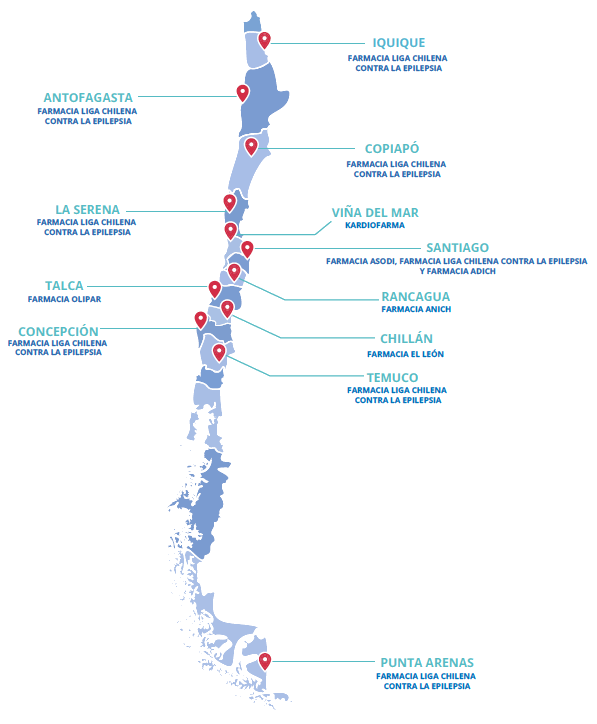
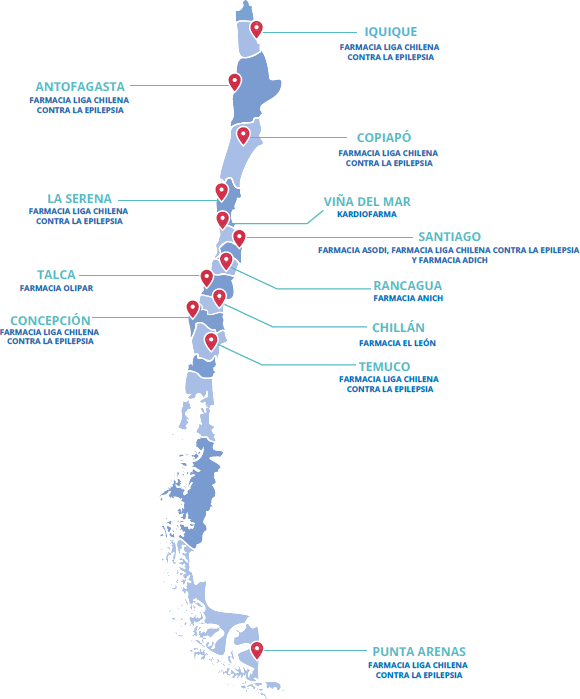
Contact Center: mapa recortado sin márgenes, ocupa ancho completo de la card

diff --git a/index.html b/index.html
@@ -382,8 +382,8 @@
 
     <div class="flex flex-col gap-4 pt-14">
       <p class="text-white font-semibold text-center">Puntos de venta presencial</p>
-      <div class="rounded-2xl border border-white/15 p-6 flex justify-center items-center" style="background:rgba(255,255,255,0.08); backdrop-filter:blur(4px)">
-        <img src="assets/mapa-puntos-ok.png" alt="Mapa puntos de venta Ketosteril Chile" class="w-full h-auto" style="max-width:290px; filter:brightness(1.15) saturate(0.9);">
+      <div class="rounded-2xl border border-white/15 p-3 flex justify-center items-center" style="background:rgba(255,255,255,0.08); backdrop-filter:blur(4px)">
+        <img src="assets/mapa-puntos-ok.png" alt="Mapa puntos de venta Ketosteril Chile" class="w-full h-auto" style="filter:brightness(1.15) saturate(0.9);">
       </div>
     </div>
   </div>